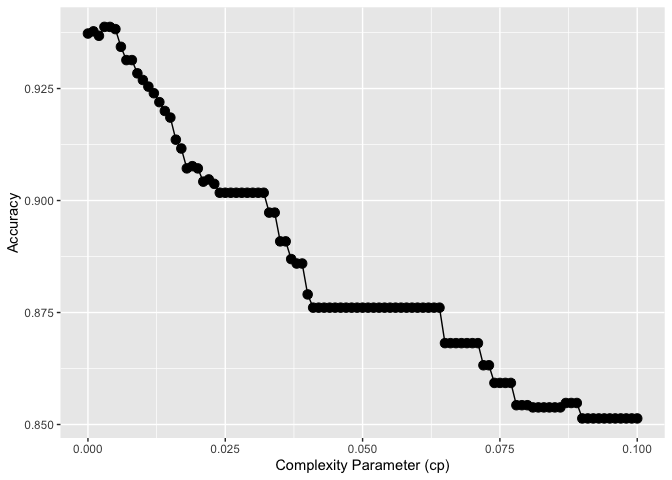
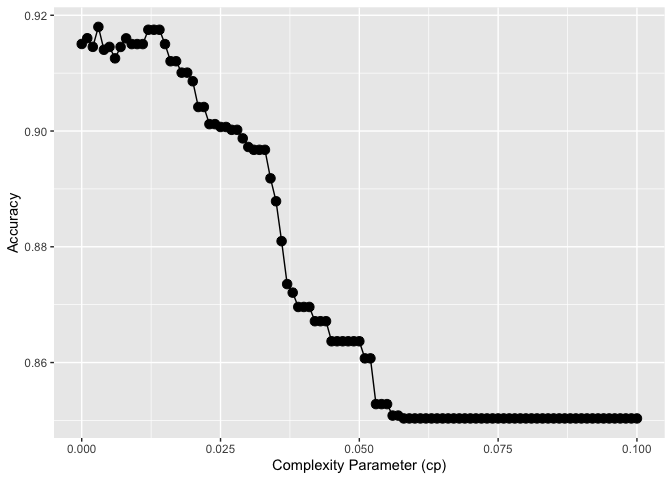
rough complete, version1

diff --git a/letter.md b/letter.md
@@ -2,17 +2,11 @@
     library(caTools)
     library(plotROC)
     library(ROCR)
-
-    ## Warning: package 'ROCR' was built under R version 3.6.2
-
     library(rpart) # CART
     library(rpart.plot) # CART plotting
     library(caret) # c
     library(randomForest)
     library(gbm)
-
-    ## Warning: package 'gbm' was built under R version 3.6.2
-
     library(GGally)
     library(MASS)
 
@@ -46,20 +40,20 @@ set
 
     ## 
     ## FALSE  TRUE 
-    ##  1526   499
+    ##  1521   504
 
     Accuracy = sum(Letters.train$isB == FALSE) / nrow(Letters.train)
     table(Letters.test$isB)
 
     ## 
     ## FALSE  TRUE 
-    ##   824   267
+    ##   829   262
 
     Base_Accuracy = sum(Letters.test$isB == FALSE) / nrow(Letters.test)
 
     paste("The Accuracy of the baseline model:", Base_Accuracy) 
 
-    ## [1] "The Accuracy of the baseline model: 0.755270394133822"
+    ## [1] "The Accuracy of the baseline model: 0.759853345554537"
 
 #### 1 ii) Logistic Regression
 
@@ -77,35 +71,35 @@ is set at $ p = 0.5$
     ## 
     ## Deviance Residuals: 
     ##     Min       1Q   Median       3Q      Max  
-    ## -3.4033  -0.1515  -0.0182   0.0000   3.5348  
+    ## -3.2286  -0.1550  -0.0211   0.0000   3.1676  
     ## 
     ## Coefficients:
     ##              Estimate Std. Error z value Pr(>|z|)    
-    ## (Intercept) -11.87452    2.45584  -4.835 1.33e-06 ***
-    ## xbox          0.05691    0.12539   0.454 0.649951    
-    ## ybox          0.13242    0.08658   1.530 0.126140    
-    ## width        -1.15004    0.15626  -7.360 1.84e-13 ***
-    ## height       -0.83729    0.14550  -5.754 8.69e-09 ***
-    ## onpix         0.89868    0.13650   6.584 4.58e-11 ***
-    ## xbar          0.63528    0.13056   4.866 1.14e-06 ***
-    ## ybar         -0.71092    0.12266  -5.796 6.79e-09 ***
-    ## x2bar        -0.37972    0.09455  -4.016 5.92e-05 ***
-    ## y2bar         1.35729    0.12619  10.756  < 2e-16 ***
-    ## xybar         0.13621    0.09180   1.484 0.137856    
-    ## x2ybar        0.52199    0.12519   4.170 3.05e-05 ***
-    ## xy2bar       -0.60928    0.10986  -5.546 2.92e-08 ***
-    ## xedge        -0.32815    0.09556  -3.434 0.000594 ***
-    ## xedgeycor     0.08840    0.10334   0.855 0.392295    
-    ## yedge         1.76508    0.13098  13.476  < 2e-16 ***
-    ## yedgexcor     0.30845    0.07269   4.243 2.20e-05 ***
+    ## (Intercept) -14.87595    2.45944  -6.049 1.46e-09 ***
+    ## xbox          0.06181    0.12372   0.500  0.61738    
+    ## ybox         -0.03750    0.08644  -0.434  0.66441    
+    ## width        -1.19031    0.15257  -7.802 6.10e-15 ***
+    ## height       -0.54764    0.13472  -4.065 4.80e-05 ***
+    ## onpix         0.84470    0.13028   6.484 8.95e-11 ***
+    ## xbar          0.54079    0.12267   4.409 1.04e-05 ***
+    ## ybar         -0.61034    0.11570  -5.275 1.33e-07 ***
+    ## x2bar        -0.47232    0.09675  -4.882 1.05e-06 ***
+    ## y2bar         1.24073    0.12026  10.317  < 2e-16 ***
+    ## xybar         0.23440    0.08812   2.660  0.00781 ** 
+    ## x2ybar        0.54196    0.12019   4.509 6.51e-06 ***
+    ## xy2bar       -0.43889    0.10923  -4.018 5.87e-05 ***
+    ## xedge        -0.25952    0.09026  -2.875  0.00404 ** 
+    ## xedgeycor     0.14422    0.10008   1.441  0.14957    
+    ## yedge         1.83068    0.13500  13.560  < 2e-16 ***
+    ## yedgexcor     0.43038    0.07194   5.983 2.20e-09 ***
     ## ---
     ## Signif. codes:  0 '***' 0.001 '**' 0.01 '*' 0.05 '.' 0.1 ' ' 1
     ## 
     ## (Dispersion parameter for binomial family taken to be 1)
     ## 
-    ##     Null deviance: 2261.39  on 2024  degrees of freedom
-    ## Residual deviance:  627.72  on 2008  degrees of freedom
-    ## AIC: 661.72
+    ##     Null deviance: 2272.50  on 2024  degrees of freedom
+    ## Residual deviance:  639.53  on 2008  degrees of freedom
+    ## AIC: 673.53
     ## 
     ## Number of Fisher Scoring iterations: 8
 
@@ -119,13 +113,13 @@ is set at $ p = 0.5$
 
     ##        pisB
     ##         FALSE TRUE
-    ##   FALSE   788   36
-    ##   TRUE     39  228
+    ##   FALSE   797   32
+    ##   TRUE     29  233
 
     log_accuracy = (confusion_m[1] + confusion_m[4])/sum(confusion_m)
     paste("The Accuracy of the logistic regression model:", log_accuracy)
 
-    ## [1] "The Accuracy of the logistic regression model: 0.931255728689276"
+    ## [1] "The Accuracy of the logistic regression model: 0.944087992667278"
 
 We also calculate the AUC of the model
 
@@ -140,7 +134,7 @@ We also calculate the AUC of the model
     # AUC
     paste("As calulated, AUC = ",as.numeric(performance(rocr.log.pred, "auc")@y.values))
 
-    ## [1] "As calulated, AUC =  0.976769026580852"
+    ## [1] "As calulated, AUC =  0.977186714426466"
 
 #### 1 iii) CART Model to predict “isB”
 
@@ -168,13 +162,13 @@ the model.
 
     ##        pred_cart
     ##         FALSE TRUE
-    ##   FALSE   788   36
-    ##   TRUE     48  219
+    ##   FALSE   789   40
+    ##   TRUE     43  219
 
     cart_accuracy = (confusion_m[1] + confusion_m[4])/sum(confusion_m)
     paste("The Accuracy of the CART model:", cart_accuracy)
 
-    ## [1] "The Accuracy of the CART model: 0.923006416131989"
+    ## [1] "The Accuracy of the CART model: 0.923923006416132"
 
     # A cp vs Accuracy to help us on deciding cp
     ggplot(train.cart$results, aes(x=cp, y=Accuracy)) + geom_point(size=3) +
@@ -195,23 +189,23 @@ the model.
 
     ##        pred.rf
     ##         FALSE TRUE
-    ##   FALSE   813   11
-    ##   TRUE     15  252
+    ##   FALSE   823    6
+    ##   TRUE     13  249
 
     rf_accuracy = (confusion_m[1] + confusion_m[4])/sum(confusion_m)
     paste("The Accuracy of the Random Forest :", rf_accuracy)
 
-    ## [1] "The Accuracy of the Random Forest : 0.976168652612282"
+    ## [1] "The Accuracy of the Random Forest : 0.982584784601283"
 
 #### 1 v) Summary
 
     data.frame(Model = c("Baseline","Logistic Regression","CART","Random Forest"), Accuracy = c(Base_Accuracy, log_accuracy, cart_accuracy, rf_accuracy))
 
     ##                 Model  Accuracy
-    ## 1            Baseline 0.7552704
-    ## 2 Logistic Regression 0.9312557
-    ## 3                CART 0.9230064
-    ## 4       Random Forest 0.9761687
+    ## 1            Baseline 0.7598533
+    ## 2 Logistic Regression 0.9440880
+    ## 3                CART 0.9239230
+    ## 4       Random Forest 0.9825848
 
 2. Prediction on “A”, “B”, “P”, “R”
 -----------------------------------
@@ -227,19 +221,19 @@ simplicity, we’ll run the demo of four letter case here.
 
     ## 
     ##   A   B   P   R 
-    ## 494 499 541 491
+    ## 499 504 522 500
 
     table(Letters.test$letter)
 
     ## 
     ##   A   B   P   R 
-    ## 295 267 262 267
+    ## 290 262 281 258
 
     ## Since "A" appears most frequently in the training set, we'll always predict the "A" in the test set
     Base_Accuracy = sum(Letters.test$letter == "A") / nrow(Letters.test)
     paste("Baseline Model Accuracy = " ,Base_Accuracy) 
 
-    ## [1] "Baseline Model Accuracy =  0.270394133822181"
+    ## [1] "Baseline Model Accuracy =  0.265811182401467"
 
 #### 2 ii) LDA (Latent Dirichlet allocation)
 
@@ -252,15 +246,15 @@ simplicity, we’ll run the demo of four letter case here.
 
     ##    
     ##       A   B   P   R
-    ##   A 269   0   0   0
-    ##   B   5 236   9  29
-    ##   P   5   0 248   0
-    ##   R  16  31   5 238
+    ##   A 275   0   0   0
+    ##   B   0 235  15  27
+    ##   P   1   0 261   0
+    ##   R  14  27   5 231
 
     lda_accuracy = sum(predTestLDA$class == Letters.test$letter)/nrow(Letters.test)
     paste("LDA Accuracy:" ,lda_accuracy)
 
-    ## [1] "LDA Accuracy: 0.908340971585701"
+    ## [1] "LDA Accuracy: 0.918423464711274"
 
 #### 2 iii) CART
 
@@ -283,11 +277,11 @@ simplicity, we’ll run the demo of four letter case here.
     ## 
     ## No pre-processing
     ## Resampling: Cross-Validated (5 fold) 
-    ## Summary of sample sizes: 1619, 1621, 1620, 1620, 1620 
+    ## Summary of sample sizes: 1619, 1619, 1621, 1620, 1621 
     ## Resampling results:
     ## 
     ##   Accuracy   Kappa    
-    ##   0.8938379  0.8583647
+    ##   0.8874337  0.8499134
     ## 
     ## Tuning parameter 'cp' was held constant at a value of 0
 
@@ -301,19 +295,157 @@ simplicity, we’ll run the demo of four letter case here.
 
     ##    
     ##       A   B   P   R
-    ##   A 282   5   1   7
-    ##   B   2 226  10  29
-    ##   P   3   9 248   2
-    ##   R   4  22   6 235
+    ##   A 278   2   4   6
+    ##   B   4 222  10  26
+    ##   P   3   8 259  11
+    ##   R   4  30   1 223
 
     cart_accuracy_2 = sum(Letters.test$letter == pred.cart$results)/(nrow(Letters.test))
     paste("CART Accuracy" ,cart_accuracy_2)
 
-    ## [1] "CART Accuracy 0.908340971585701"
+    ## [1] "CART Accuracy 0.900091659028414"
 
     tree <- rpart(letter ~., data = Letters.train, method = "class")
     rpart.plot(tree)
 
 ![](letter_files/figure-markdown_strict/unnamed-chunk-15-1.png)
 
-#### iv Bagging of CART models
+#### 2 iv) Bagging of CART models
+
+    ## fit the model
+    train.letter.mm = as.data.frame(model.matrix(letter ~ . + 0, data = subset(Letters.train, select=c(-isB))))
+
+    mod.bag <- randomForest(x = train.letter.mm, y = Letters.train$letter, mtry = 16)
+    mod.bag
+
+    ## 
+    ## Call:
+    ##  randomForest(x = train.letter.mm, y = Letters.train$letter, mtry = 16) 
+    ##                Type of random forest: classification
+    ##                      Number of trees: 500
+    ## No. of variables tried at each split: 16
+    ## 
+    ##         OOB estimate of  error rate: 4.79%
+    ## Confusion matrix:
+    ##     A   B   P   R class.error
+    ## A 490   2   2   5  0.01803607
+    ## B   4 471   3  26  0.06547619
+    ## P   4  10 505   3  0.03256705
+    ## R   6  31   1 462  0.07600000
+
+    ## display the result 
+    Letters.test.mm = as.data.frame(model.matrix(letter~.+0, data=Letters.test))
+
+    pred.bag <- predict(mod.bag, newdata = Letters.test.mm)
+
+    confusion_m <- table(pred.bag, Letters.test$letter)
+    confusion_m 
+
+    ##         
+    ## pred.bag   A   B   P   R
+    ##        A 289   2   1   0
+    ##        B   0 249   2   9
+    ##        P   0   1 276   1
+    ##        R   1  10   2 248
+
+    bagging_accuract = sum(pred.bag == Letters.test$letter)/nrow(Letters.test)
+    paste("Bagging of CART Accuracy: ", bagging_accuract)
+
+    ## [1] "Bagging of CART Accuracy:  0.973418881759853"
+
+#### 2 v) Random Forest
+
+We use 5-fold cross validation to find the best entry of mtry
+
+    mod.rf <- randomForest(letter ~ ., data = subset(Letters.train, select=c(-isB) ), mtry = 5)
+    mod.rf
+
+    ## 
+    ## Call:
+    ##  randomForest(formula = letter ~ ., data = subset(Letters.train,      select = c(-isB)), mtry = 5) 
+    ##                Type of random forest: classification
+    ##                      Number of trees: 500
+    ## No. of variables tried at each split: 5
+    ## 
+    ##         OOB estimate of  error rate: 2.77%
+    ## Confusion matrix:
+    ##     A   B   P   R class.error
+    ## A 496   1   1   1 0.006012024
+    ## B   0 485   1  18 0.037698413
+    ## P   1   9 510   2 0.022988506
+    ## R   1  21   0 478 0.044000000
+
+    pred.rf <- predict(mod.rf, newdata = Letters.test) 
+    table(pred.rf, Letters.test$letter)
+
+    ##        
+    ## pred.rf   A   B   P   R
+    ##       A 290   1   0   0
+    ##       B   0 254   1   5
+    ##       P   0   1 278   1
+    ##       R   0   6   2 252
+
+    rf_acc = sum(pred.rf == Letters.test$letter)/nrow(Letters.test)
+    rf_acc
+
+    ## [1] 0.984418
+
+#### 2 vi) Gradient Boosting
+
+    ## fit the gradient boosting machine 
+    mod.boost <- gbm(letter ~ .-isB + 0, 
+                     data = Letters.train,
+                     distribution = "multinomial",
+                     n.trees = 3300,
+                     interaction.depth = 10)
+
+    ## Warning: Setting `distribution = "multinomial"` is ill-advised as it is
+    ## currently broken. It exists only for backwards compatibility. Use at your own
+    ## risk.
+
+    mod.boost
+
+    ## gbm(formula = letter ~ . - isB + 0, distribution = "multinomial", 
+    ##     data = Letters.train, n.trees = 3300, interaction.depth = 10)
+    ## A gradient boosted model with multinomial loss function.
+    ## 3300 iterations were performed.
+    ## There were 16 predictors of which 16 had non-zero influence.
+
+    pred.boost <- predict(mod.boost, newdata = subset(Letters.test, select=c(-isB)), type = "response",n.trees = 3300) 
+    pred.boost <- apply(pred.boost, 1, which.max)
+    pred.boost <- factor(pred.boost,levels = c(1,2,3,4),labels = c("A","B","P","R"))
+
+    confusion_m <- table(pred.boost,Letters.test$letter)
+    confusion_m
+
+    ##           
+    ## pred.boost   A   B   P   R
+    ##          A 289   0   1   0
+    ##          B   1 255   2   7
+    ##          P   0   0 275   1
+    ##          R   0   7   3 250
+
+    gbm_acc = sum(pred.boost == Letters.test$letter)/nrow(Letters.test)
+
+    paste("Gradient Boosting Accuracy: ", gbm_acc)
+
+    ## [1] "Gradient Boosting Accuracy:  0.979835013748854"
+
+#### 2 vii) Summary on the methods we used for recognizing “A” “B” “P” "R
+
+    data.frame(Model = c("Baseline","CART","CART Bagging","Random Forest","Gradient Boosting"), Accuracy = c(Base_Accuracy, cart_accuracy_2, bagging_accuract, rf_acc, gbm_acc))
+
+    ##               Model  Accuracy
+    ## 1          Baseline 0.2658112
+    ## 2              CART 0.9000917
+    ## 3      CART Bagging 0.9734189
+    ## 4     Random Forest 0.9844180
+    ## 5 Gradient Boosting 0.9798350
+
+A short summary to all the methods above, the Gradient boosting is
+giving the best performance comparing to others. Without other
+assumptions, GBM will be the model selected for further analysis on
+letter recognition. Random forest also have a good performance among
+other models, and a good thing of it is the time cost on training is
+much lower than boosting, whereas its test set accuracy is only 0.0027
+lower.
